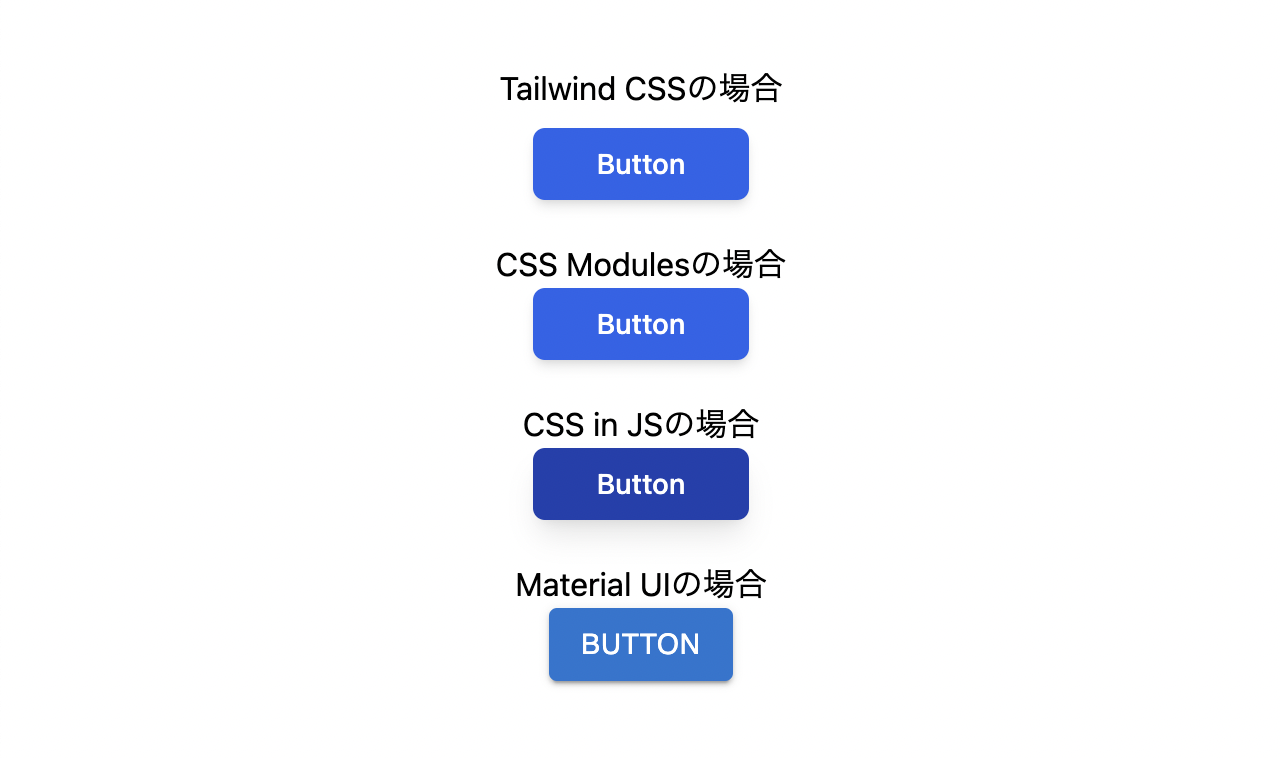
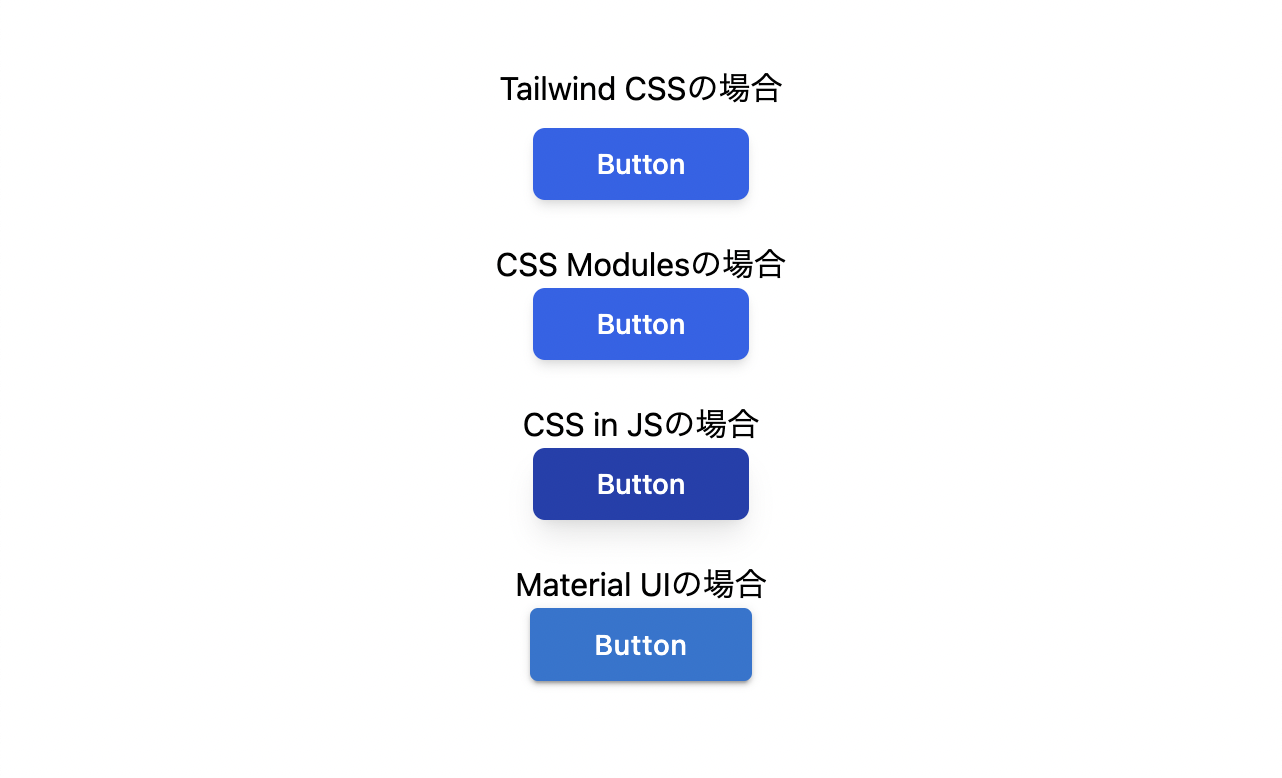
feat:MUIのボタンのスタイルを調整

diff --git a/src/components/ButtonMUI.tsx b/src/components/ButtonMUI.tsx
@@ -3,7 +3,17 @@ import { Button } from "@mui/material";
 const ButtonMUI = () => {
   return (
     <>
-      <Button variant="contained">Button</Button>
+      <Button
+        variant="contained"
+        sx={{
+          textTransform: "unset",
+          fontFamily: "inherit",
+          paddingLeft: "2rem",
+          paddingRight: "2rem",
+        }}
+      >
+        Button
+      </Button>
     </>
   );
 };

diff --git a/src/App.tsx b/src/App.tsx
@@ -1,7 +1,7 @@
 import "./App.css";
 import ButtonCSSModules from "./components/ButtonCSSModules";
 import ButtonCSSinJS from "./components/ButtonCSSinJS";
-import ButtonMUI from "./components/ButtinMUI";
+import ButtonMUI from "./components/ButtonMUI";
 
 function App() {
   return (
